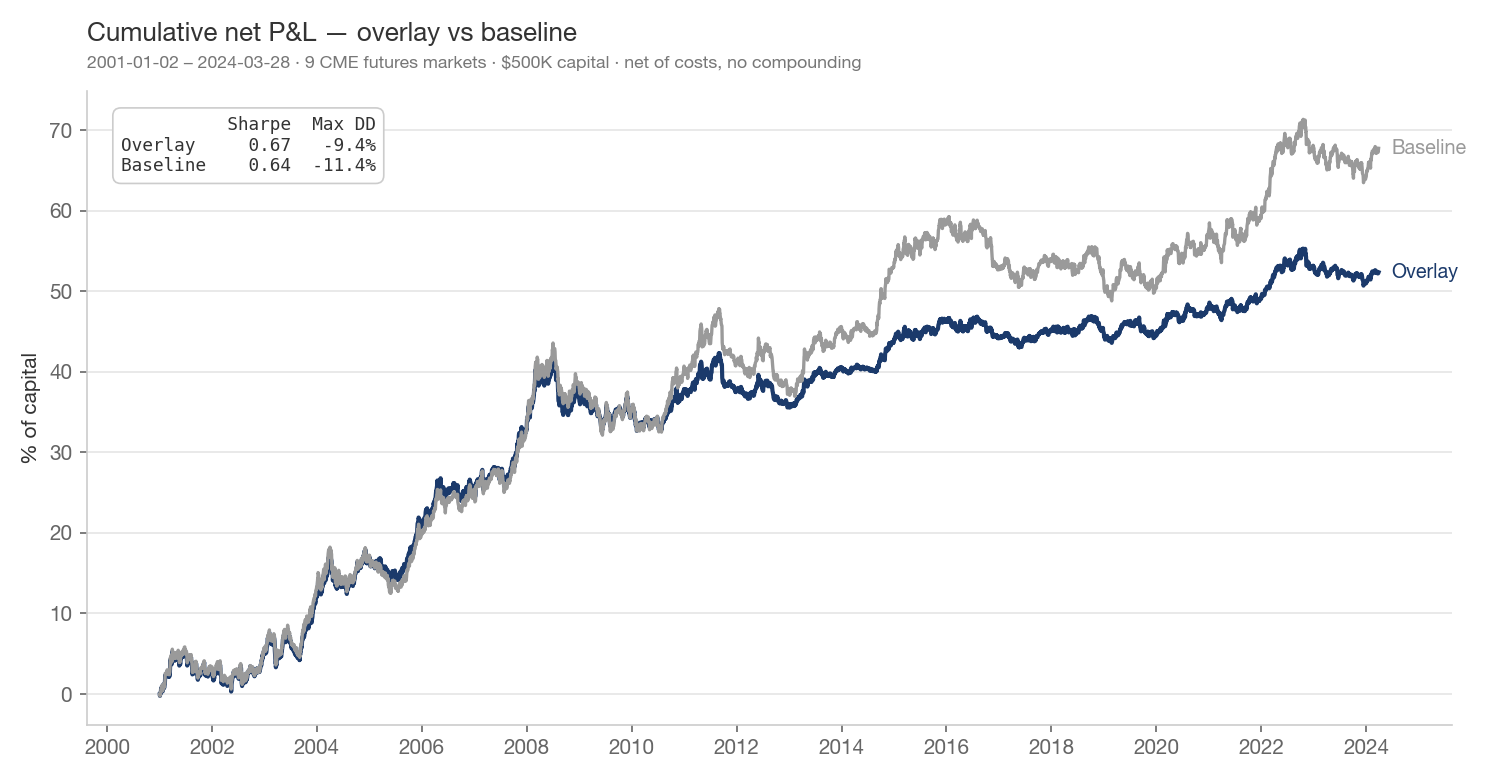
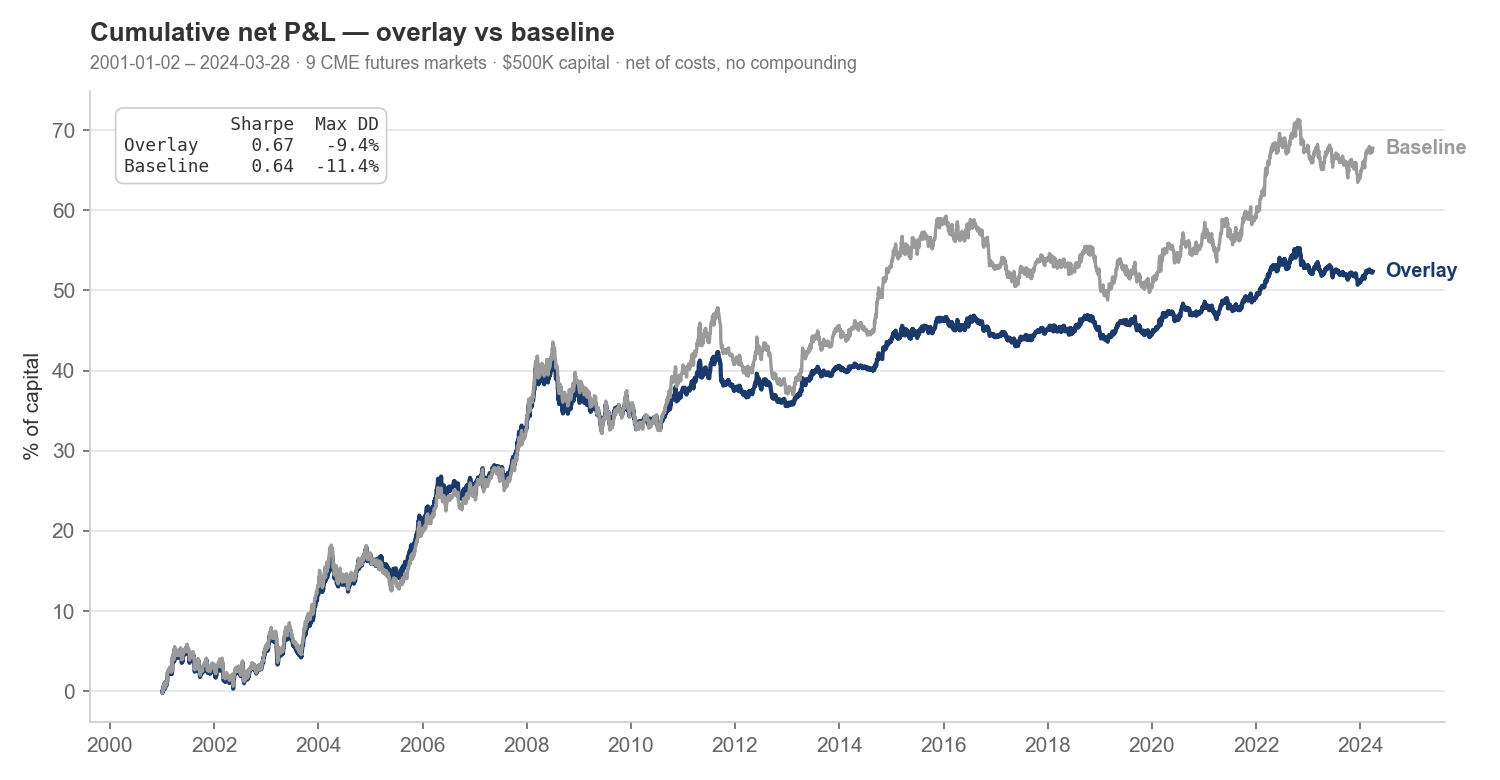
Exhibits: Arial for real bold weights, Table 1 caption, 2021-2024.03 label
No change to strategy logic or results; the backtest's own PNGs are
byte-identical after the reruns.

- exhibit_restyle.py: the shared matplotlib sans-serif list now leads with
  Arial. matplotlib registers only the regular face inside the HelveticaNeue
  .ttc, so every fontweight="bold" title, annotation, and value in FIG1-FIG4
  and the summary table had been rendering regular. All five exhibits are
  regenerated; the table's own Arial override is dropped as redundant.
- Summary table: in-image caption "Figure 1." -> "Table 1." to match its slot
  in exhibits.md; last sub-period label "2021-2024" -> "2021-2024.03" to match
  strategy_results.md and Table 2, with the sub-period block widened so the
  longer label no longer collides with its neighbour.
- strategy_results.md prose: full-sample S&P 500 beta stated as -0.02 (was
  -0.024) for consistency with the table; the generator's format in
  packaging_beta_lomo.py is changed to match so a rerun reproduces it. The
  regression table row keeps four decimals (-0.0237).

diff --git a/scripts/exhibit_restyle.py b/scripts/exhibit_restyle.py
@@ -43,7 +43,7 @@ INK = "#333333"
 FAINT = "#777777"
 plt.rcParams.update({
     "font.family": "sans-serif",
-    "font.sans-serif": ["Helvetica Neue", "Helvetica", "Arial", "DejaVu Sans"],
+    "font.sans-serif": ["Arial", "Helvetica Neue", "Helvetica", "DejaVu Sans"],
     "font.size": 10,
     "axes.edgecolor": "#cccccc",
     "axes.labelcolor": INK,
@@ -61,7 +61,9 @@ plt.rcParams.update({
     "axes.facecolor": "white",
     "savefig.dpi": 150,
 })
-# NB: Helvetica lacks the U+2192 arrow glyph — use an en dash in date ranges
+# Arial: metrically a Helvetica clone with a real Bold face installed —
+# matplotlib sees only the regular face inside the HelveticaNeue .ttc, so bold
+# titles/values there rendered regular. Date ranges use an en dash, not U+2192.
 SUB_FULL = ("2001-01-02 – 2024-03-28 · 9 CME futures markets · $500K capital · "
             "net of costs, no compounding")
 
@@ -221,7 +223,7 @@ pnl = {p: float(md_row(mkts, p)[0])
 subp = md_section(snapshot, "5. Sub-periods")
 sub_sharpe = [(lbl, md_row(subp, key)[0].split(" / ")[2]) for lbl, key in
               (("2001–2008", "2001-2008"), ("2009–2014", "2009-2014"),
-               ("2015–2020", "2015-2020"), ("2021–2024", "2021-2024.03"))]
+               ("2015–2020", "2015-2020"), ("2021–2024.03", "2021-2024.03"))]
 sens = md_section(snapshot, "7. Integer-contract pass")
 int_sharpe = md_row(sens, "overlay net INTEGER")[2]
 x2_sharpe = md_row(sens, "overlay net 2× costs")[2]
@@ -248,13 +250,9 @@ GROUPS = [
                             ("Turnover", f"~{cost_mean[4]} contracts/yr")]),
 ]
 PNL_COLS = sorted(pnl.items(), key=lambda kv: -kv[1])
-CAPTION = ("Figure 1.", " Backtest summary, 2001–2024, $500K, "
+CAPTION = ("Table 1.", " Backtest summary, 2001–2024, $500K, "
            "net of modeled costs.")
 
-# Arial: metrically a Helvetica clone, and the only one of the two with a
-# real Bold face installed (matplotlib sees just the regular face inside the
-# HelveticaNeue .ttc, so "bold" there silently renders regular).
-FONT = "Arial"
 # layout in inches from the top-left corner; 150 dpi via rcParams
 W, H = 11.0, 4.75
 L, R = 0.55, W - 0.55
@@ -265,7 +263,6 @@ Y = lambda y: 1 - y / H
 
 
 def txt(x, y, s, **kw):
-    kw.setdefault("fontfamily", FONT)
     return fig.text(X(x), Y(y), s, **kw)
 
 
@@ -299,7 +296,7 @@ y_head2 = y_bot + 0.56
 y_rule2 = y_head2 + 0.14
 y_lab2, y_val2 = y_rule2 + 0.30, y_rule2 + 0.62
 y_bot2 = y_val2 + 0.20
-x_split = L + (R - L) * 0.36
+x_split = L + (R - L) * 0.43          # room for the 2021–2024.03 label
 rule(L, y_rule2, R, y_rule2, **HEAVY)
 rule(x_split, y_head2 - 0.22, x_split, y_bot2, **THIN)
 for title, cols, x0, x1 in [

diff --git a/scripts/packaging_beta_lomo.py b/scripts/packaging_beta_lomo.py
@@ -122,7 +122,7 @@ series gives beta {m_spy_y_ov['beta']:+.4f} on Stooq's window vs Stooq's
 | SPY adj. (Stooq) | 2005-02-28 → {w_hi} | {fmt(m_spy_s)} |
 | ES cont. futures (Stooq) | {w_lo} → {w_hi} | {fmt(m_es)} |
 
-Beta to the S&P 500 over the full sample is {m_spy['beta']:+.3f} (SE
+Beta to the S&P 500 over the full sample is {m_spy['beta']:+.2f} (SE
 {m_spy['se']:.4f}; Newey-West SE {m_spy['se_nw']:.4f}, about
 {abs(tstat_nw):.0f} robust SEs below zero), correlation {m_spy['corr']:+.2f}:
 economically negligible and slightly negative, and the same to three decimals

diff --git a/strategy_results.md b/strategy_results.md
@@ -253,7 +253,7 @@ series gives beta -0.0209 on Stooq's window vs Stooq's
 | SPY adj. (Stooq) | 2005-02-28 → 2024-03-28 | -0.0207 | 0.0023 | 0.0042 | -0.131 | 1.70% | 4,803 |
 | ES cont. futures (Stooq) | 2001-01-02 → 2024-03-28 | -0.0234 | 0.0022 | 0.0037 | -0.136 | 1.86% | 5,889 |
 
-Beta to the S&P 500 over the full sample is -0.024 (SE
+Beta to the S&P 500 over the full sample is -0.02 (SE
 0.0022; Newey-West SE 0.0039, about
 6 robust SEs below zero), correlation -0.14:
 economically negligible and slightly negative, and the same to three decimals
